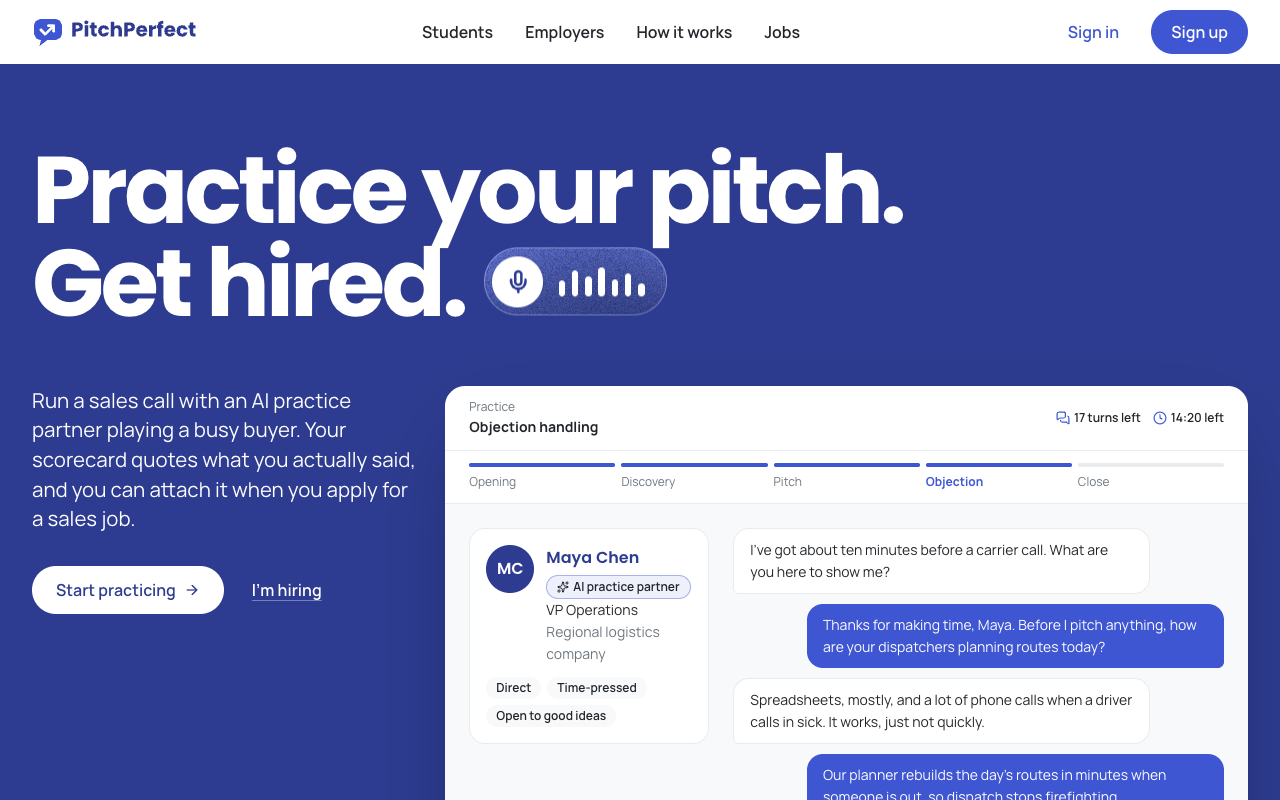
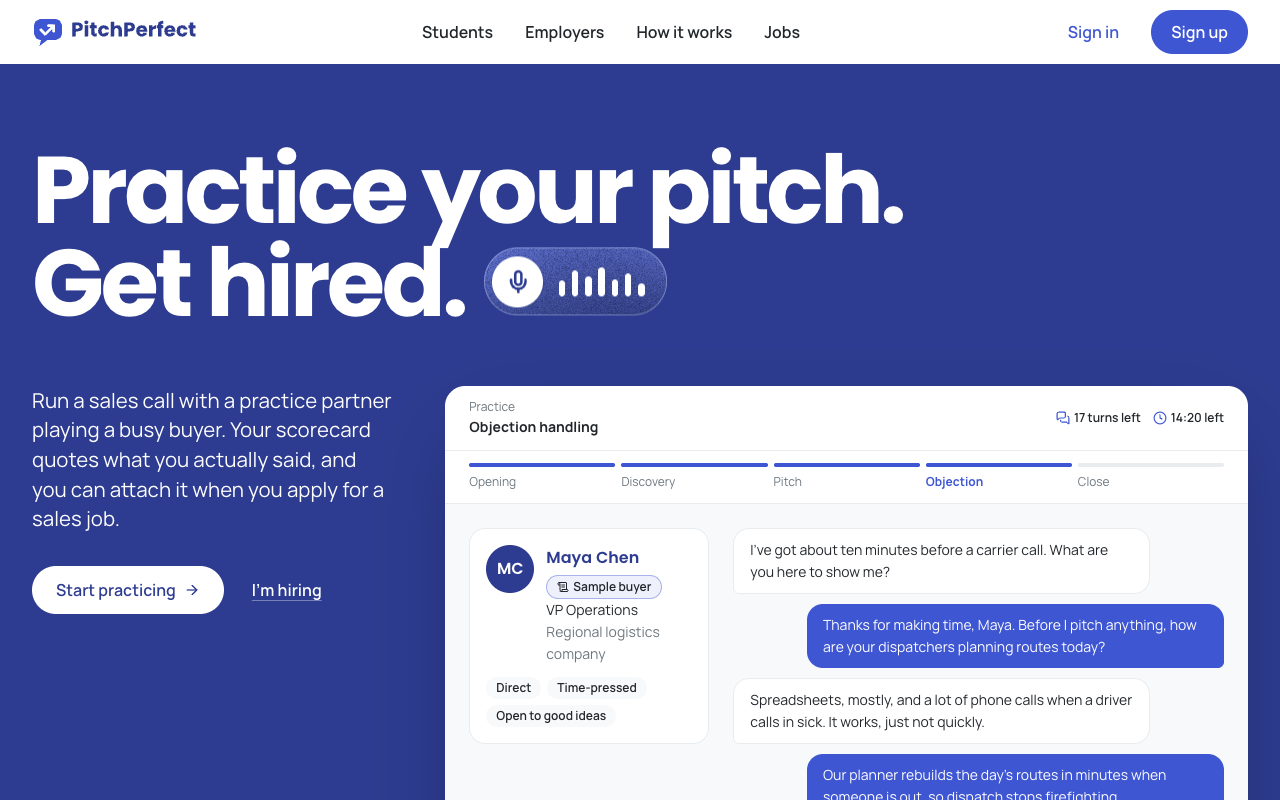
docs: describe the partner by what runs it, and retake the stale screenshots
README, conventions, the design system and the product design no longer say the partner is always an AI: it is a live model from OpenAI or Anthropic when a key is set and the scripted partner otherwise, and the public demo always uses the scripted one. The home, practice room and applicant screenshots are retaken from the containers with the scripted partner, so they show the current copy and the "Scripted demo partner" badge, and the captions say so.

Changed region(s): [[0.0312, 0.4688, 0.3125, 0.6562], [0.4375, 0.7188, 0.5312, 0.75]]

diff --git a/README.md b/README.md
@@ -2,28 +2,28 @@
 
 Practice the sales call out loud before the real one, then apply with the scorecard.
 
-PitchPerfect is a practice and hiring site for entry-level sales jobs. A student reads a short lesson on one skill, then runs the call by voice or text with an AI practice partner that plays the buyer. When the call ends they get a scorecard that quotes what they actually said. Employers post roles and, if a candidate chooses to share one, read that scorecard next to the application.
+PitchPerfect is a practice and hiring site for entry-level sales jobs. A student reads a short lesson on one skill, then runs the call by voice or text with a practice partner that plays the buyer: a live model from OpenAI or Anthropic when a key is set, or a scripted partner when it isn't. When the call ends they get a scorecard that quotes what they actually said. Employers post roles and, if a candidate chooses to share one, read that scorecard next to the application.
 
 > Status: portfolio project. It runs end to end on your machine with seeded demo data; deployment steps are in [docs/deploy.md](docs/deploy.md).
 >
-> **Live demo:** https://shashank11yadav.github.io/PitchPerfect/ is a static build on GitHub Pages. You can run a practice call (the scripted partner and the scorer run in your browser), read the lessons and browse the job board; accounts, applying and the employer tools need the api and database, so they are only in the full app.
+> **Live demo:** https://shashank11yadav.github.io/PitchPerfect/ is a static build on GitHub Pages. You can run a practice call with the scripted partner (it and the scorer run in your browser, since Pages can't run a live model), read the lessons and browse the job board; accounts, applying and the employer tools need the api and database, so they are only in the full app.
 
 ## What's inside
 
-| Area          | What it does                                                                                                                                                                                              |
-| ------------- | --------------------------------------------------------------------------------------------------------------------------------------------------------------------------------------------------------- |
-| **Learn**     | Eight short lessons, one per core skill: introducing yourself, pitching, objection handling, probing and discovery, referrals and networking, next steps, asking for the business, interpersonal skills.  |
-| **Practice**  | Pick a skill (or a real job posting), pitch by voice or text to an AI buyer persona with hidden objections, then get a 7-dimension scorecard with strengths, improvements, and a rewritten stronger line. |
-| **Jobs**      | Public job board. Students save, apply, optionally share a scorecard, and track status.                                                                                                                   |
-| **Employers** | Company profile, job posting with a safe rich-text editor, applicant pipeline (shortlist, interview, hire, not a fit), interview scheduling, dashboard.                                                   |
+| Area          | What it does                                                                                                                                                                                             |
+| ------------- | -------------------------------------------------------------------------------------------------------------------------------------------------------------------------------------------------------- |
+| **Learn**     | Eight short lessons, one per core skill: introducing yourself, pitching, objection handling, probing and discovery, referrals and networking, next steps, asking for the business, interpersonal skills. |
+| **Practice**  | Pick a skill (or a real job posting), pitch by voice or text to a buyer persona with hidden objections, then get a 7-dimension scorecard with strengths, improvements, and a rewritten stronger line.    |
+| **Jobs**      | Public job board. Students save, apply, optionally share a scorecard, and track status.                                                                                                                  |
+| **Employers** | Company profile, job posting with a safe rich-text editor, applicant pipeline (shortlist, interview, hire, not a fit), interview scheduling, dashboard.                                                  |
 
 ## Screenshots
 
-Taken with `npx tsx e2e/screenshots.ts` from a local production build (`npm run build`, then `next start`) running the `fake` practice partner, the demo data, and the default practice limits.
+Taken with `npx tsx e2e/screenshots.ts` from the containers (`docker compose --profile full up --build -d`) with the demo data and the default practice limits. No key is set there, so the partner is the scripted one and the practice room labels it "Scripted demo partner"; with a live model the badge reads "AI practice partner". The call on the home page is a sample, labelled "Sample buyer".
 
 ![Home page: the headline "Practice your pitch. Get hired." beside a sample practice call](docs/images/home.png)
 
-![Practice room two turns into a pitching call, with the buyer's profile, the stage tracker, and the reply box](docs/images/practice-room.png)
+![Practice room two turns into a pitching call, with the buyer's profile labelled "Scripted demo partner", the stage tracker, and the reply box](docs/images/practice-room.png)
 
 ![Scorecard for a pitching call: 72 out of 100, with a 1 to 5 score, a reason and a quoted line for each of the seven rubric lines](docs/images/scorecard.png)
 

diff --git a/docs/design/product-design.md b/docs/design/product-design.md
@@ -6,7 +6,7 @@ PitchPerfect is a platform where students and early-career candidates (18+) trai
 
 It is a **portfolio-grade demo**: fully working and deployable, with seeded demo data, not a production launch with real users.
 
-In the product, the practice feature is honestly called an **"AI practice partner"**: users are told the buyer is automated, and the privacy page names the LLM provider that processes transcripts. Naming the provider as a runtime dependency (SDK package, env var, adapter module) is fine.
+In the product, the partner is labelled for what is really answering: an **"AI practice partner"** when a live model runs it, a **"Scripted demo partner"** when the scripted provider does (the public demo always uses that one). Users are told the buyer is automated either way, and with a live model the privacy page names the LLM provider that processes transcripts. Naming the provider as a runtime dependency (SDK package, env var, adapter module) is fine.
 
 ## 2. Goals
 
@@ -143,7 +143,7 @@ PitchPerfect/
 - Keyboard shortcuts: Space for push-to-talk, Enter to send. Screen-reader announcements for new replies.
 - If mic permission is denied or STT is unavailable, it switches to text mode with an explanation.
 - **Honest privacy copy:** PitchPerfect never uploads or stores audio. However, the browser's own speech recognition may send audio to the browser vendor (Google for Chrome, Apple for Safari, Microsoft for Edge). The practice room says so next to the mic toggle and links to the privacy page. Where the browser offers on-device recognition, it is preferred automatically. Text mode is always one click away for anyone who prefers it.
-- **First-session consent:** before a student's first practice session, a one-time notice explains three things: the partner is an AI, transcripts are processed by the configured LLM provider and kept for 180 days, and voice handling works as described above. The student must accept before starting. Acceptance is stored with a timestamp.
+- **First-session consent:** before a student's first practice session, a one-time notice explains three things: what the partner is (an AI, or the scripted demo), where transcripts go (the configured LLM provider, our own server, or nowhere outside the browser tab) and how long they are kept, and voice handling works as described above. The student must accept before starting. Acceptance is stored with a timestamp.
 
 ### 6.5 Security baseline (all services)
 

diff --git a/docs/design-system.md b/docs/design-system.md
@@ -80,12 +80,12 @@ icon-card grids.
   - Sticky plain white bar: logo, Students, Employers, How it works, Jobs, then Sign in and a primary "Sign up".
   - Home hero: flat navy, the tagline at hero size with the voice pill inline after "Get hired." (word-sized on desktop, at least 40 px tall on phones), one lead sentence, "Start practicing" plus an "I'm hiring" text link, and the practice room rising out of the navy into the white section below.
   - Inner page heroes: flat navy, the title on the left and the lead at the opposite end of its baseline.
-  - The close of every page is a brand-blue band; the footer is navy with the logo, links and legal line.
+  - The close of every page is a brand-blue band; the footer is navy with the logo, links, the legal line and "Built by Shashank Yadav" with his GitHub and website.
 - **App (student and employer):**
   - Desktop: left sidebar with icon + label, a top bar with page title and account menu, and content in cards.
   - Mobile: a bottom tab bar (max 5 items) and a top bar.
 - **Practice room:**
-  - A persona card (AI badge, name, title, company type, personality chips).
+  - A persona card (a badge for what is answering: AI, scripted demo, or sample on the marketing pages; name, title, company type, personality chips).
   - A transcript panel (student right in blue, partner left in white, captions always visible).
   - A bottom control dock: a large push-to-talk button with level meter, an editable interim transcript, a send button, a type toggle, a voice picker, mute, and End session.
   - Progress along the top: stage stepper, turns left, time left.

diff --git a/docs/conventions.md b/docs/conventions.md
@@ -64,5 +64,5 @@ These rules apply to every workspace. If a rule here conflicts with a habit, the
 ## Copy and content
 
 - Plain, friendly, direct English. Sentence case for headings and buttons ("Start practice", not "Start Practice").
-- The practice feature is called the **AI practice partner**. Personas have human names but are always labelled as AI in the UI.
+- The practice feature is called the **practice partner**. Personas have human names but are always labelled for what is answering: "AI practice partner" only when a live model runs it (partner kind `live`), "Scripted demo partner" for `scripted` and `browser`. Copy that can't know the partner kind (marketing pages, metadata, JSON-LD) never calls it AI, and the sample calls on those pages are labelled "Sample buyer".
 - No real company names, logos, or people in seed data, lessons, or examples.
